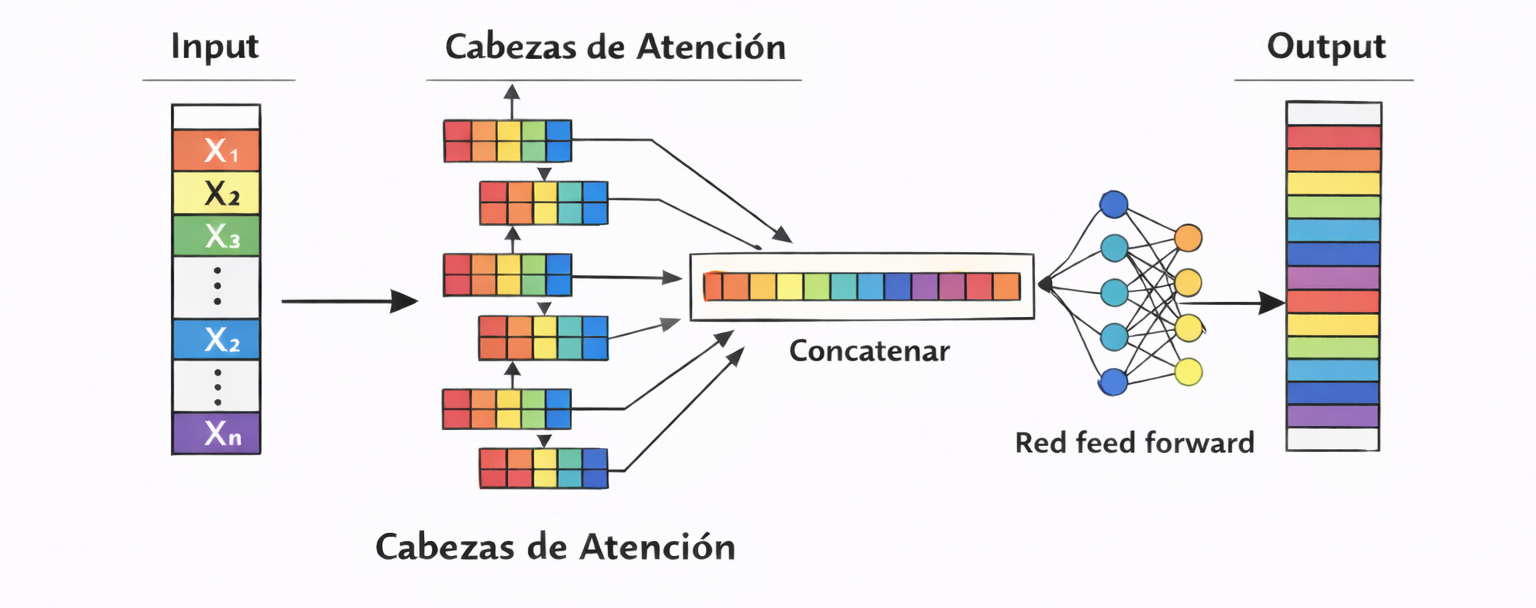
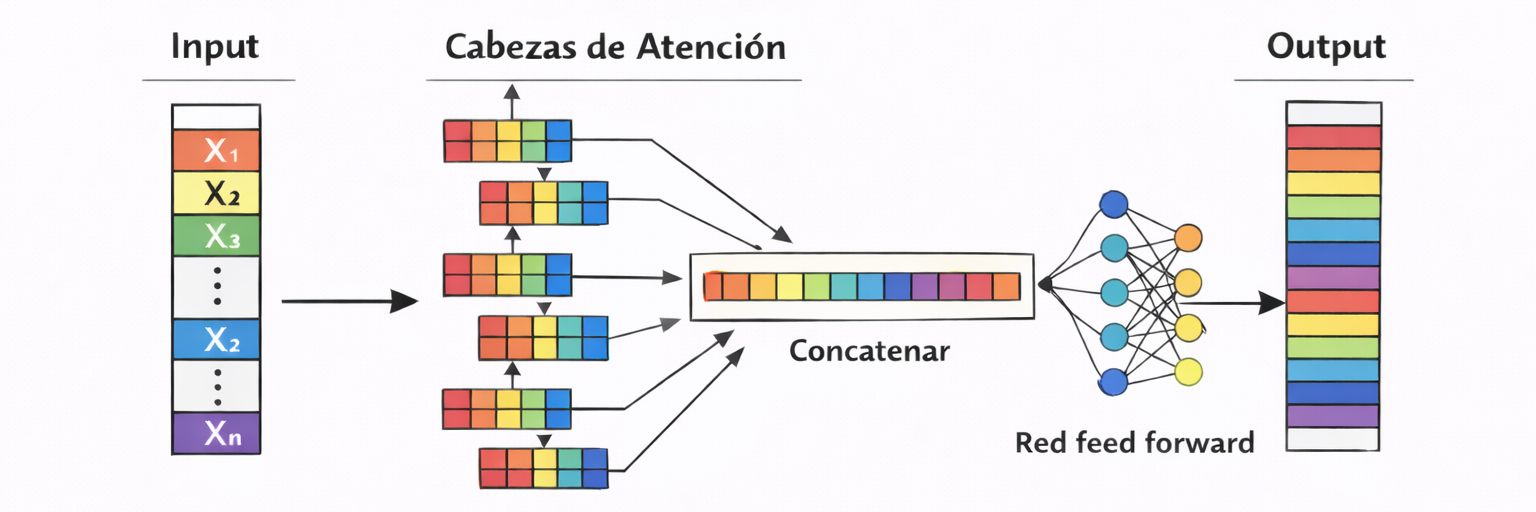
agregar un esquema 2 para QKV

Changed region(s): [[0.0938, 0.0312, 0.9375, 0.9688], [0.0938, 0.7812, 0.1875, 0.9062], [0.8438, 0.875, 0.9062, 0.9062]]

diff --git a/_site/clase-06b.html b/_site/clase-06b.html
@@ -515,7 +515,7 @@
 </section>
 <section id="queries-keys-y-values-1" class="slide level2">
 <h2>Queries, Keys y Values</h2>
-<p><img data-src="imagenes/esquema_QKV.png" width="800" height="600"></p>
+<p><img data-src="imagenes/esquema_QKV.png" width="800" height="300"></p>
 </section></section>
 <section>
 <section id="arquitectura-transformer" class="title-slide slide level1 center">
@@ -547,7 +547,7 @@
 <div class="medium-par">
 <p>Un bloque Transformer combina Multi-Head Attention con una red feed-forward, rodeados de <strong>normalización de capa</strong> y <strong>conexiones residuales</strong>:</p>
 </div>
-<p><img data-src="imagenes/arquitectura_simplificada.png" width="800" height="600"></p>
+<p><img data-src="imagenes/arquitectura_simplificada.png" width="800" height="400"></p>
 <div class="fragment small-par">
 <p>Un Transformer completo = apilar <span class="math inline">\(N\)</span> de estos bloques (BERT usa 12 ó 24).</p>
 </div>